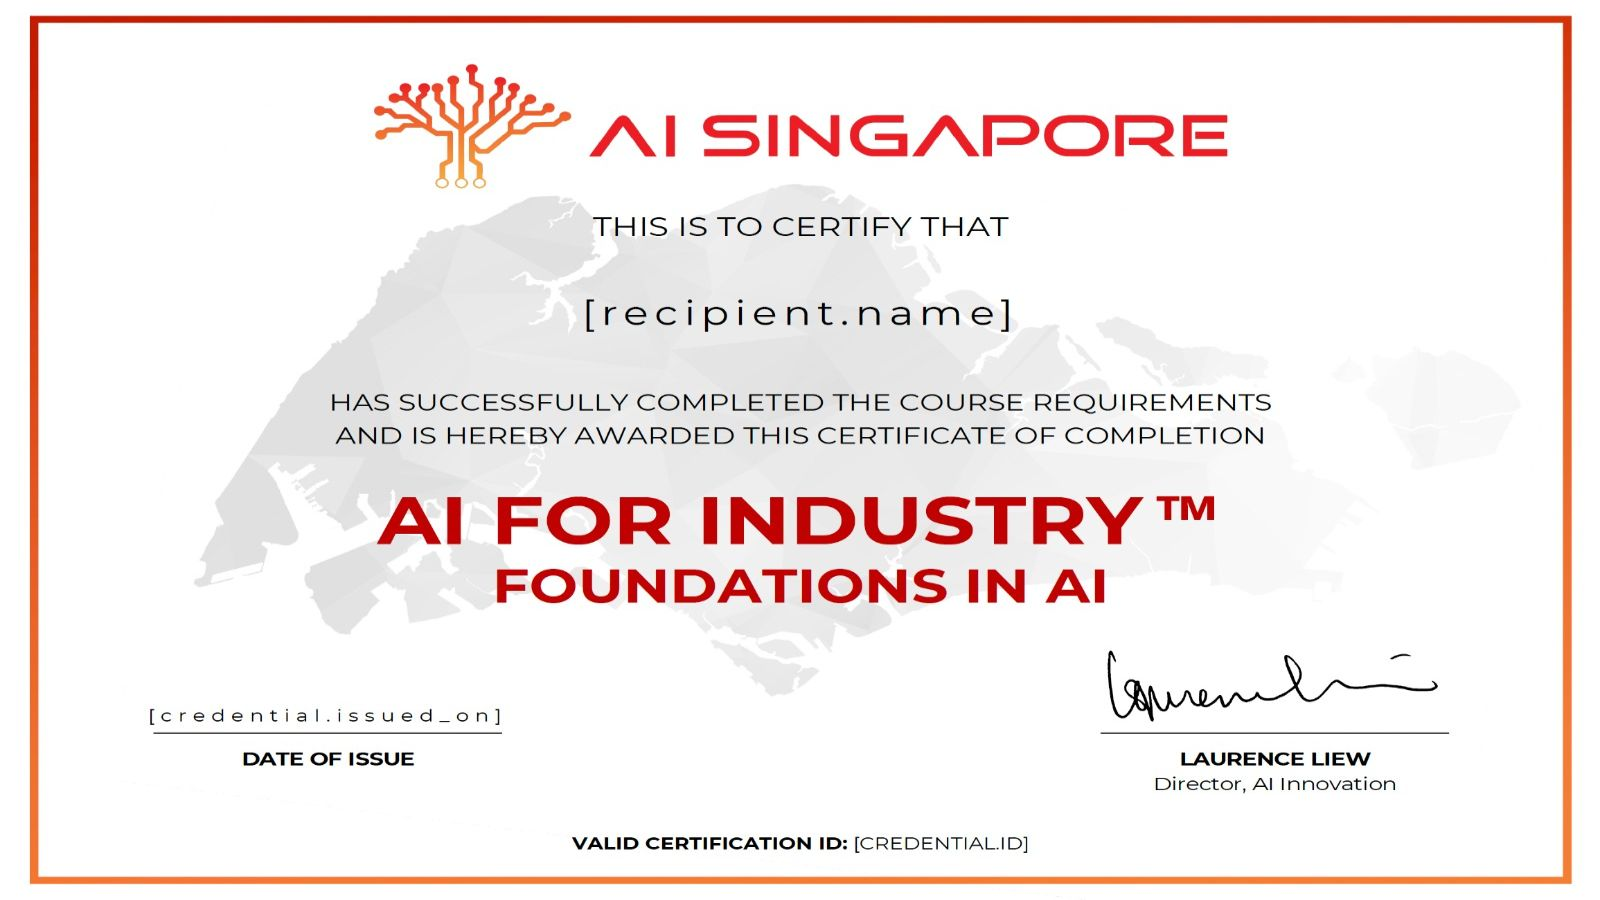
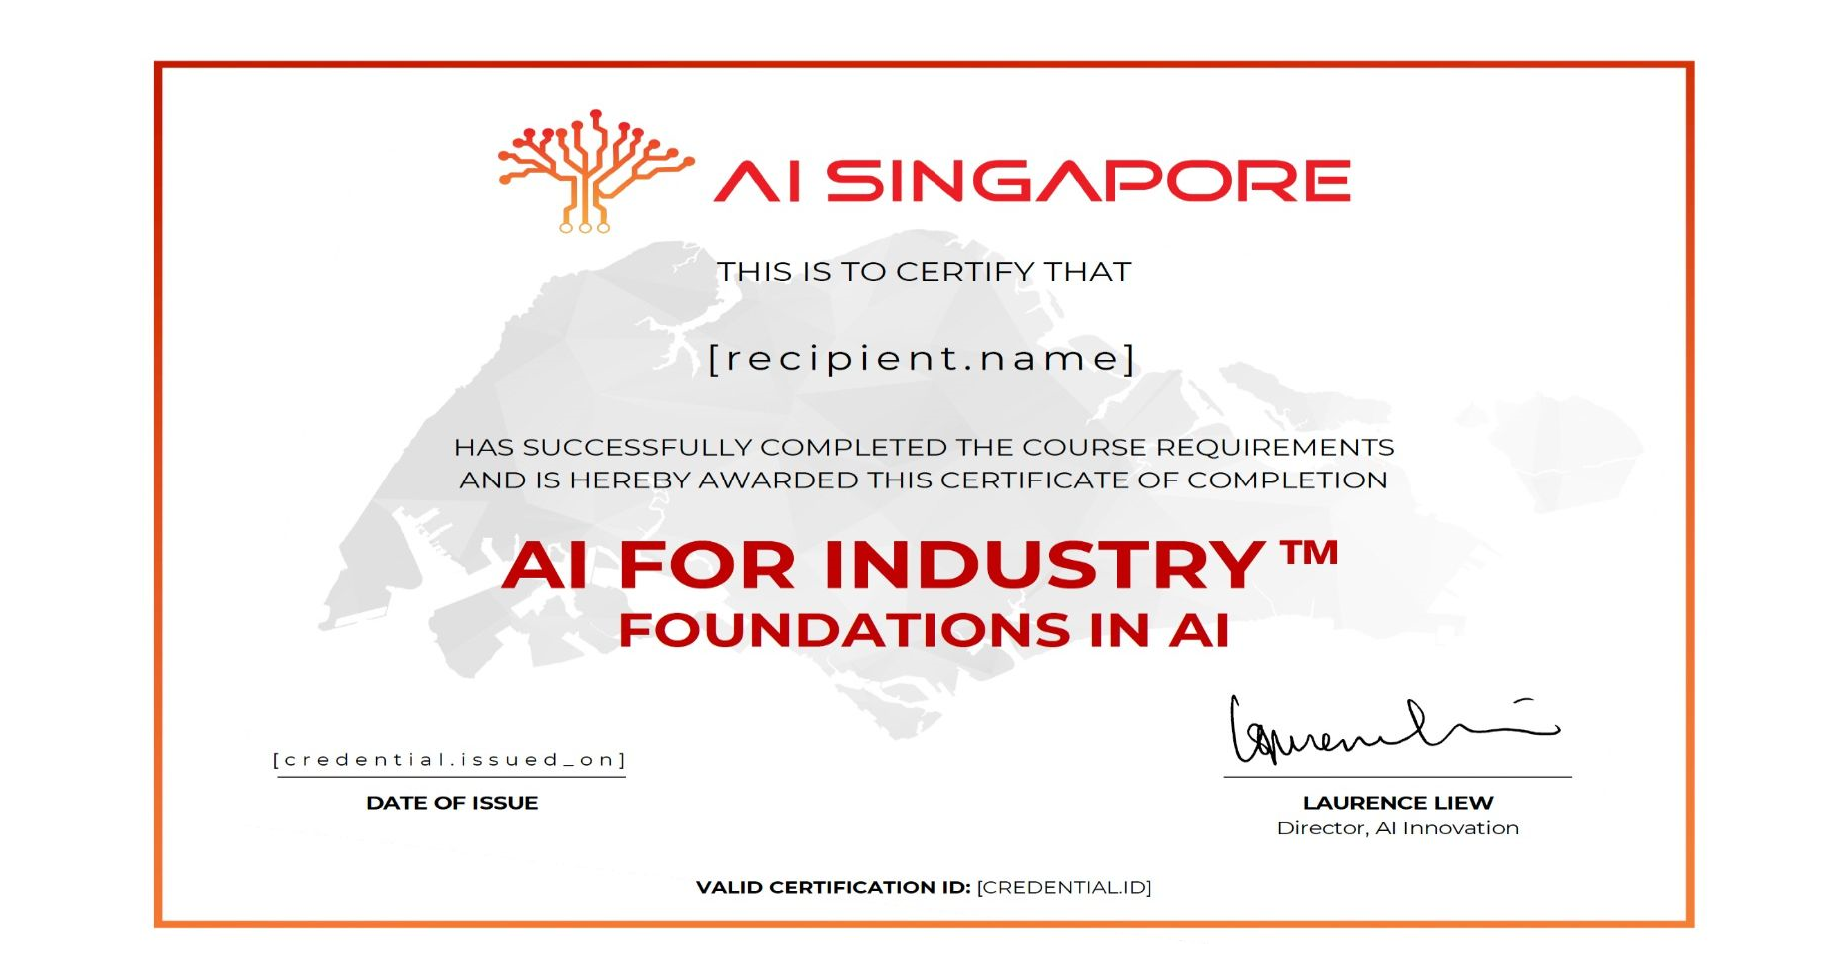
resize cert images, correct spelling errors

Changed region(s): [[0.0, 0.0, 1.0, 0.9956]]

diff --git a/details/profitandloss.html b/details/profitandloss.html
@@ -34,7 +34,7 @@
 						<header class="major">
 							<h2>Profit and Loss Details</h2>
 						</header>
-						<p>The Profit and Loss (P&L) Storyboard displays details of the movements and porportion of revenue, material cost and material profit of each business 
+						<p>The Profit and Loss (P&L) Storyboard displays details of the movements and proportion of revenue, material cost and material profit of each business 
 							segment. With this storyboard, the user is able to monitor the financial performance of itself and other subsidiaries over accounting periods of choice. 
 							The Storyboard consists of 5 dashboards: 
 							<br>1. P&L Overview
@@ -44,10 +44,10 @@
 							<br>5. P&L Analysis
 						</p>
 
-						<p>The <b>first</b> dashboard is the P&L Overview Dashboard. The dashboard showcases a summary of the organisation finances, i.e. the orgainsation's 
-							financial position. The meters showcases the KPIs, the orange line in each meter represetns the budget / target value. The higher the actual values 
+						<p>The <b>first</b> dashboard is the P&L Overview Dashboard. The dashboard showcases a summary of the organisation finances, i.e. the organisation’s
+							financial position. The meters showcases the KPIs, the orange line in each meter represents the budget / target value. The higher the actual values 
 							are above the budget value, the better it is for the organisation. Hence, if the actual values for these KPIs are above the budget value, the meter
-							will turn green and vice versa. In addition, the previous year actual values are also displayed on the top-right hand corner for easy comparsion between
+							will turn green and vice versa. In addition, the previous year actual values are also displayed on the top-right hand corner for easy comparison between
 							this year's and the previous year's values. 
 							<br><br>
 							The table labelled "Income Statement" provides the user with a summary of the main sections of an entity's income statement. 
@@ -55,7 +55,7 @@
 						</p>
 						<a class="image details"><img src="../images/Profit&Loss/PL_overview.PNG" alt="" /></a>
 
-						<p>The <b>second</b> dashboard is the Business Segment Dashboard. In this dashboard, user is able see the comparsion between actual and budget values of 
+						<p>The <b>second</b> dashboard is the Business Segment Dashboard. In this dashboard, user is able see the comparison between actual and budget values of 
 							revenue, material cost and material profit across the subsegments present in each business segment.
 						</p>
 						<a class="image details"><img src="../images/Profit&Loss/PL_business_segment.PNG" alt="" /></a>
@@ -79,7 +79,7 @@
 						</br><br>In each category, the user is able to see the performance of 6 different metrics (Revenue, Material Cost, Material Profit, SG&A, NMC, EBITDA) 
 						across either the Top 8 countries or by the regions (Europe, Asia, USA) respectively.
 						
-						<br><br>The waterfall chart allows users to view the best and worse performing countries in each metric and comparsion. The starting bar represents the 
+						<br><br>The waterfall chart allows users to view the best and worst performing countries in each metric and comparison. The starting bar represents the 
 						budget value while the ending bar represents the actual value. 
 
 						<br><br>The bar chart on the right allows the users to compare between two metrics of their choice and the ability to toggle between 4 parameters, 
@@ -106,7 +106,7 @@
 
 				<!-- Copyright -->
 					<div id="copyright">
-						<ul>Copyright &copy; Leow Kai Xin 2022</ul>
+						<ul>Copyright &copy; Leow Kai Xin <script>document.write(new Date().getFullYear())</script></ul>
 					</div>
 			</div>
 

diff --git a/details/balancesheet.html b/details/balancesheet.html
@@ -34,8 +34,8 @@
 						<header class="major">
 							<h2>Balance Sheet Details</h2>
 						</header>
-						<p>The Balance Sheet Storyboard displays details of the movements and porportion of each asset, liability and equity category. With the storyboard, the 
-							user is able to make comparsions with balance sheets itself and other subsidiaries over accounting period of choice, allowing the organisation to 
+						<p>The Balance Sheet Storyboard displays details of the movements and proportion of each asset, liability and equity category. With the storyboard, the 
+							user is able to make comparison with balance sheets itself and other subsidiaries over accounting period of choice, allowing the organisation to 
 							derive the most value from balance sheet and make more informed decisions. This storyboard consists of <b>5</b> dashboards: 
 							<br>1. Overview
 							<br>2. Assets
@@ -44,7 +44,7 @@
 							<br>5. Balance Sheet Analysis 
 						</p>
 
-						<p>The <b>first</b> dashboard is the Overview Dashboard. The dashboard showcases a summary of the organisation finances, i.e. the orgainsation's 
+						<p>The <b>first</b> dashboard is the Overview Dashboard. The dashboard showcases a summary of the organisation finances, i.e. the organisation’s
 							financial position. The comparison charts compare assets, liabilities, and equity by category of the current year and month against that of 
 							the previous month.
 						</p>
@@ -66,7 +66,7 @@
 							Liabilities. 
 							<br>
 							<br>The 6 cards are also clickable for users to navigate to other dashboards for details, i.e. For 3rd Party Account Payables (AP) and Interco AP Cards, 
-							the stacked bar chart shows change in porportion of each aging bucket over a span of 13 months and the amount the organisation owes its creditors.
+							the stacked bar chart shows change in proportion of each aging bucket over a span of 13 months and the amount the organisation owes its creditors.
 						</p>
 						<a class="image details"><img src="../images/BalanceSheet/BS_liabilities.PNG" alt="" /></a>
 
@@ -80,7 +80,7 @@
 						<br>In each category, the user is able to see the performance of 7 different metrics (Current Assets, Non-Current Assets, Total Assets, Current Liabilities, 
 						Non-Current Liabilities, Total Liabilities, Net Assets, Equity) across either the Top 8 countries or by the regions (Europe, Asia, USA) respectively. 
 
-						<br><br>The waterfall chart allows users to view the best and worse performing countries in each metric and comparsion. The left side of the waterfall chart 
+						<br><br>The waterfall chart allows users to view the best and worst performing countries in each metric and comparison. The left side of the waterfall chart 
 						represents the previous month (PM) value while the right represents the actual (ACT) value. 
 
 						<br><br>The bar chart on the right allows the users to compare between two metrics of their choice and the ability to toggle between 3 parameters, Actual (Act),
@@ -107,7 +107,7 @@
 
 				<!-- Copyright -->
 					<div id="copyright">
-						<ul>Copyright &copy; Leow Kai Xin 2022</ul>
+						<ul>Copyright &copy; Leow Kai Xin <script>document.write(new Date().getFullYear())</script></ul>
 					</div>
 			</div>
 

diff --git a/index.html b/index.html
@@ -117,7 +117,7 @@
 							</article>
 							<article>
 								<header>
-									<h2><a>Opex</a></h2>
+									<h2><a>OPEX</a></h2>
 								</header>
 								<a class="image fit"><img src="images/OPEX/OPEX_regional.PNG" alt="" /></a>
 								<ul class="actions special">
@@ -126,13 +126,15 @@
 							</article>
 							<article>
 								<header>
-									<h2><a href="https://public.tableau.com/app/profile/leowkaixin">Covid Analysis with Tableu</a></h2>
+									<h2><a>Covid Analysis with Tableu</a></h2>
 								</header>
-								<a href="https://public.tableau.com/app/profile/leowkaixin" class="image fit">
-									<img src="images/tableau.JPG" alt="" /></a>
+								<a class="image fit"><img src="images/tableau.JPG" alt="" /></a>
 								<ul class="actions special">
 									<li><a href="https://public.tableau.com/app/profile/leowkaixin" class="button">View</a></li>
 								</ul>
+							</article>
+							<article>
+
 							</article>
 						</section>
 					</div>
@@ -155,7 +157,7 @@
 
 				<!-- Copyright -->
 					<div id="copyright">
-						<ul>Copyright &copy; Leow Kai Xin 2022</ul>
+						<ul>Copyright &copy; Leow Kai Xin <script>document.write(new Date().getFullYear())</script></ul>
 					</div>
 
 			

diff --git a/cert.html b/cert.html
@@ -35,7 +35,7 @@
 									<h2>Google Data Analytics 
 										<!-- Professional -->
 									</h2>
-									<a class="image fit"><img src="images/google.png" alt="" width="450" height="350"/></a>
+									<a class="image fit"><img src="images/google.png"/></a>
 								</header>
 								<ul class="actions special">
 									<li><a href="https://www.coursera.org/account/accomplishments/specialization/certificate/W5ULBXSYQC6X" class="button">View</a></li>
@@ -45,7 +45,7 @@
 								<header>
 									<h2><a href="">Foundations in AI</a></h2>
 								</header>
-								<a href="" class="image fit"><img src="images/AI Singapore.png" alt="" width="550" height="350"/></a>
+								<a href="" class="image fit"><img src="images/AI Singapore.png" max-height="80%"/></a>
 								<ul class="actions special">
 									<li><a href="https://drive.google.com/file/d/1o_GLuEi5PNT5PtJyxQDFOo_PCWj-n4L-/view?usp=share_link" class="button">View</a></li>
 								</ul>
@@ -69,7 +69,7 @@
 
 				<!-- Copyright -->
 					<div id="copyright">
-						<ul>Copyright &copy; Leow Kai Xin 2022</ul>
+						<ul>Copyright &copy; Leow Kai Xin <script>document.write(new Date().getFullYear())</script></ul>
 					</div>
 
 			

diff --git a/details/cashflow.html b/details/cashflow.html
@@ -98,7 +98,7 @@
 
 				<!-- Copyright -->
 					<div id="copyright">
-						<ul>Copyright &copy; Leow Kai Xin 2022</ul>
+						<ul>Copyright &copy; Leow Kai Xin <script>document.write(new Date().getFullYear())</script></ul>
 					</div>
 			</div>
 

diff --git a/details/forex.html b/details/forex.html
@@ -77,7 +77,7 @@
 
 				<!-- Copyright -->
 					<div id="copyright">
-						<ul>Copyright &copy; Leow Kai Xin 2022</ul>
+						<ul>Copyright &copy; Leow Kai Xin <script>document.write(new Date().getFullYear())</script></ul>
 					</div>
 			</div>
 

diff --git a/details/opex.html b/details/opex.html
@@ -71,7 +71,7 @@
 
 				<!-- Copyright -->
 					<div id="copyright">
-						<ul>Copyright &copy; Leow Kai Xin 2022</ul>
+						<ul>Copyright &copy; Leow Kai Xin <script>document.write(new Date().getFullYear())</script></ul>
 					</div>
 			</div>
 

diff --git a/details/workingcapital.html b/details/workingcapital.html
@@ -86,7 +86,7 @@
 
 				<!-- Copyright -->
 					<div id="copyright">
-						<ul>Copyright &copy; Leow Kai Xin 2022</ul>
+						<ul>Copyright &copy; Leow Kai Xin <script>document.write(new Date().getFullYear())</script></ul>
 					</div>
 			</div>
 

diff --git a/assets/css/main.css b/assets/css/main.css
@@ -2934,7 +2934,7 @@ input, select, textarea {
 		}
 
 		header > p {
-			font-style: italic;
+			font-style: none;
 		}
 
 		header > h1 + p {
